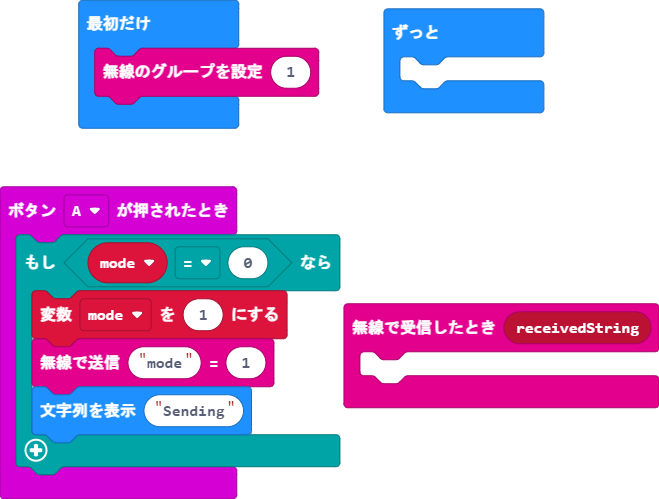
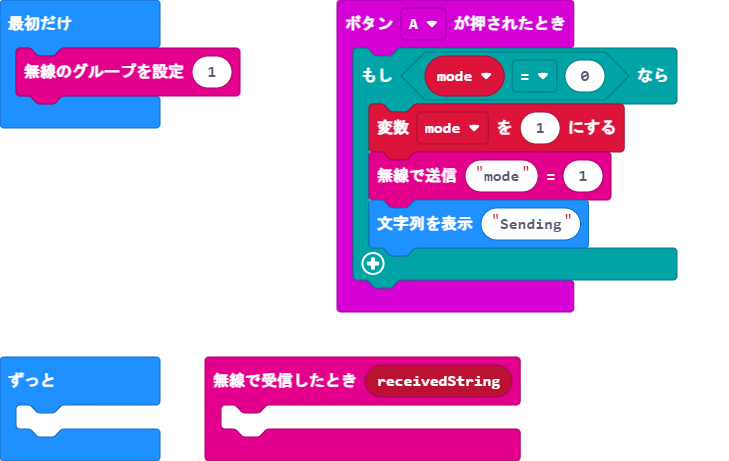
更新 main.blocks, main.ts

diff --git a/main.ts b/main.ts
@@ -1,24 +1,13 @@
-radio.onReceivedNumber(function (receivedNumber) {
-    if (receivedNumber == 1) {
-        mode = 0
-        sended = 0
-        recieved = 1
-        basic.showString("passed")
-    } else {
-    	
-    }
-})
 input.onButtonPressed(Button.A, function () {
     if (mode == 0) {
         mode = 1
-        sended = 1
-        recieved = 0
-        radio.sendNumber(1)
+        radio.sendValue("mode", 1)
         basic.showString("Sending")
     }
 })
-let recieved = 0
-let sended = 0
+radio.onReceivedString(function (receivedString) {
+	
+})
 let mode = 0
 radio.setGroup(1)
 basic.forever(function () {
